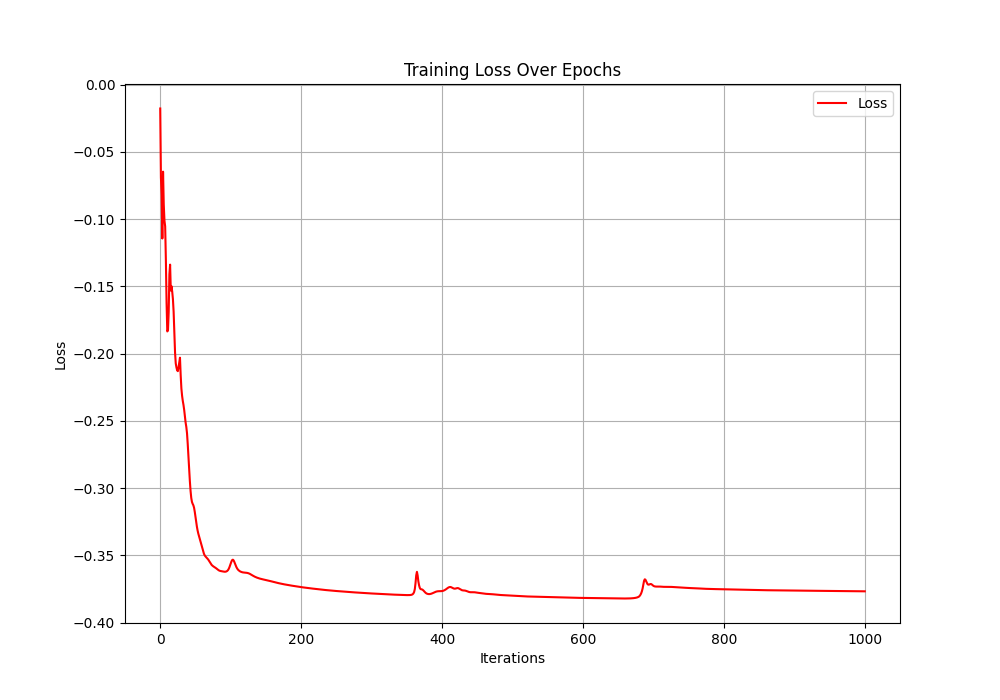
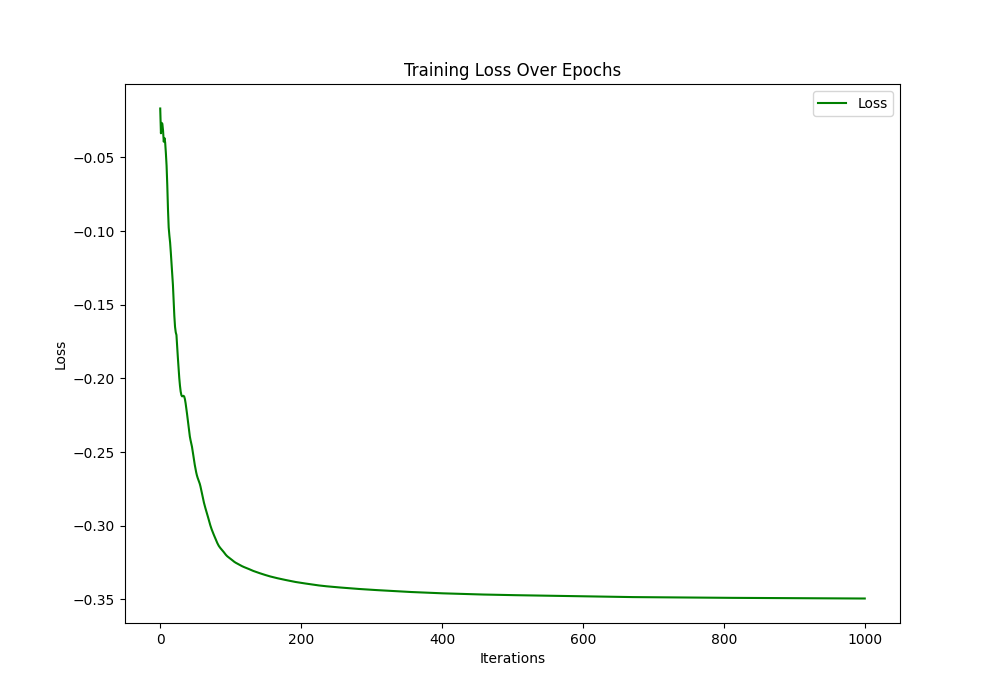
more images

diff --git a/train.py b/train.py
@@ -11,7 +11,7 @@ import metrics
 import utils
 import matplotlib.pyplot as plt 
 
-ARG_graph_path = "data/npz/ms_academic_phy.npz"
+ARG_graph_path = "data/npz/cora_full.npz"
 ARG_architecture = [64]; 
 ARG_collapse_regularization = 1; 
 ARG_dropout_rate = 0; 
@@ -138,9 +138,9 @@ def main(argv):
   plt.xlabel('Iterations')
   plt.ylabel('Loss')
   plt.title('Training Loss Over Epochs')
-  plt.grid(False)  # Add grid lines
+  plt.grid(True)  # Add grid lines
   plt.legend()
-  plt.savefig('training_loss_plot_4.png')
+  plt.savefig('corafull3.png')
   plt.show()  # Prints some metrics used in the paper.
   print('Conductance:', metrics.conductance(adjacency, clusters))
   print('Modularity:', metrics.modularity(adjacency, clusters))
